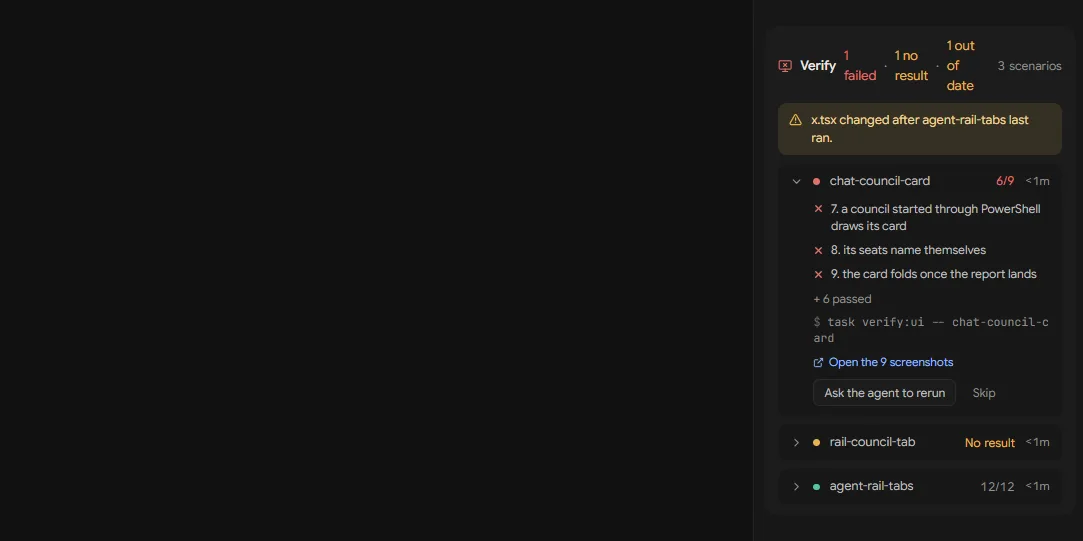
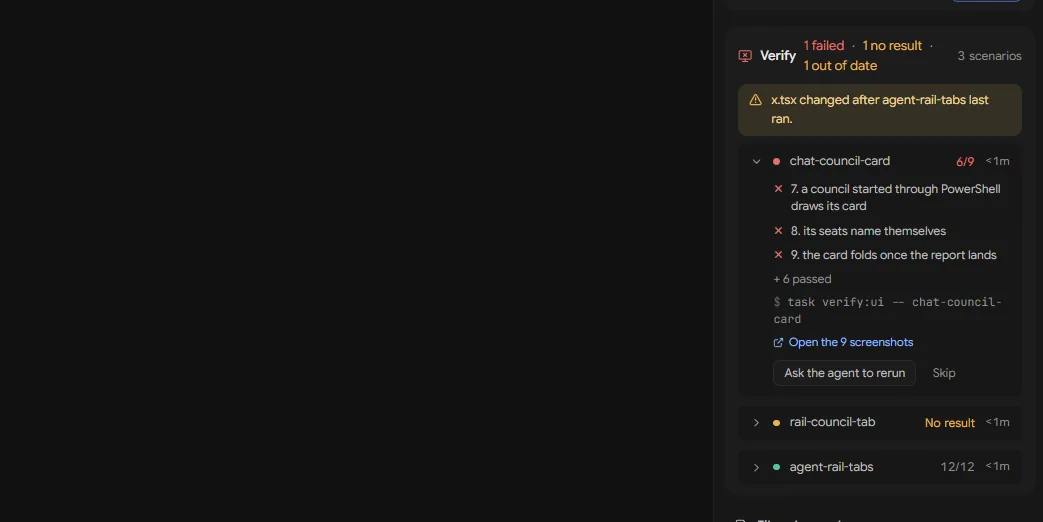
fix(verify): the tile's head keeps each verdict part whole, and the tile re-reads when the agent's state changes
The head's verdict parts were shrinking flex items that broke word by word in the 300px rail
('1 / failed · 1 no / result'); each part is now nowrap in one wrapping span, so a part that does not
fit moves to the next line whole and the scenario count stays at the right. The rerun command breaks
at words and hyphens, not mid-word.

useVerify takes the agent's state and reads again when it changes (a turn starting or ending): wavesrv
publishes nothing for a watched file the agent edits, so an edit after a passed run showed as passed
until a remount. No timer; the store and docs/agents/verify.md say so.

rail-verify: step 1 asserts every verdict part draws on one line with the count in view at the right;
step 8 edits the file during a turn and ends the turn through the roster row's state, with the page's
reads counted, instead of reading by hand. The What's new picture is taken again with the fix in.

Arc-Run: de501e59-96a1-46fe-b13f-8e1c18e57e78-t-9
Arc-Task: t-9
Arc-Model: t-9 claude claude-sonnet-5-5

diff --git a/frontend/app/view/agents/railverify.tsx b/frontend/app/view/agents/railverify.tsx
@@ -10,7 +10,8 @@
 // (`Verify · 3 passed`) that opens it. What the person opened lives in a per-agent atom, because the Overview tab unmounts
 // when another tab shows, and a tile that forgot its open rows on every tab switch would be a tile to fight.
 //
-// Test hooks: [data-verify-tile] (the section; data-verify-folded on its head while it is folded), [data-verify-head],
+// Test hooks: [data-verify-tile] (the section; data-verify-folded on its head while it is folded), [data-verify-head] with
+// one [data-verify-verdict] per verdict part and the [data-verify-count] ("3 scenarios"),
 // [data-verify-warning] (data-verify-kind outofdate|notrun), [data-verify-row=<scenario>][data-verify-state=<state>] with
 // [data-verify-open] (aria-expanded), [data-verify-note], [data-verify-shots], and the buttons [data-verify-rerun],
 // [data-verify-skip], [data-verify-undo], valued with the scenario (`notrun` on the warning line), [data-verify-error],
@@ -35,7 +36,7 @@ import {
     type LucideIcon,
 } from "lucide-react";
 import { AnimatePresence, motion } from "motion/react";
-import { Fragment, useEffect, useRef, useState } from "react";
+import { useEffect, useRef, useState } from "react";
 import type { RailVerifyStrip } from "./agentrailsections";
 import { openFileInPanel } from "./agentrailstore";
 import type { AgentsViewModel } from "./agents";
@@ -75,10 +76,11 @@ const TEXT_BTN = cn(
 // ---- the agent's state, read for the tile, the strip and the chip -------------------------------------------------------
 
 /** The agent's Verify state against its checkout. The rail's own cwd for the agent, or its roster cwd while the rail has not
- *  resolved one: the tile, the chip and the strip all read through this, so they share one block's atom and one read. */
+ *  resolved one: the tile, the chip and the strip all read through this, so they share one block's atom and one read. The
+ *  agent's state goes with it: a turn starting or ending is when a file the agent edited shows as out of date. */
 export function useAgentVerify(agent: AgentVM, enabled: boolean): { st: VerifyStateData | null; cwd: string } {
     const cwd = useAtomValue(railCwdsAtom)[agent.id] ?? agent.cwd ?? "";
-    const st = useVerify(enabled ? agent.blockId : undefined, cwd === "" ? undefined : cwd);
+    const st = useVerify(enabled ? agent.blockId : undefined, cwd === "" ? undefined : cwd, agent.state);
     return { st, cwd };
 }
 
@@ -217,16 +219,23 @@ export function VerifyTile({
             </span>
             <span className="font-medium text-primary">Verify</span>
             {!expanded ? <span className="text-muted">·</span> : null}
-            {tile.head.parts.map((p, i) => (
-                <Fragment key={i}>
-                    {i > 0 ? <span className="text-muted">·</span> : null}
-                    <span data-verify-verdict className={TONE_TEXT[p.tone]}>
-                        {p.text}
+            {/* the verdict parts wrap whole: a part that does not fit in the rail's width moves to the next line with its
+                  trailing dot, and never breaks inside (`1 / failed · 1 no / result`); the count stays at the right */}
+            <span className="flex min-w-0 flex-wrap items-baseline gap-x-[7px]">
+                {tile.head.parts.map((p, i) => (
+                    <span key={i} className="flex flex-none items-baseline gap-x-[7px] whitespace-nowrap">
+                        <span data-verify-verdict className={TONE_TEXT[p.tone]}>
+                            {p.text}
+                        </span>
+                        {i < tile.head.parts.length - 1 ? <span className="flex-none text-muted">·</span> : null}
                     </span>
-                </Fragment>
-            ))}
+                ))}
+            </span>
             {expanded && tile.head.count !== "" ? (
-                <span className="ml-auto flex-none pl-[6px] text-[11px] tabular-nums text-muted">
+                <span
+                    data-verify-count
+                    className="ml-auto flex-none whitespace-nowrap pl-[6px] text-[11px] tabular-nums text-muted"
+                >
                     {tile.head.count}
                 </span>
             ) : null}
@@ -446,7 +455,8 @@ export function VerifyTile({
                                                                     + {row.passedMore} passed
                                                                 </div>
                                                             ) : null}
-                                                            <div className="break-all font-mono text-[10.5px] text-muted">
+                                                            {/* breaks between words and at hyphens; inside a word only when it is wider than the tile */}
+                                                            <div className="break-words font-mono text-[10.5px] text-muted">
                                                                 <span className="text-ink-faint">$ </span>
                                                                 {row.command}
                                                             </div>

diff --git a/frontend/app/view/agents/verifystore.ts b/frontend/app/view/agents/verifystore.ts
@@ -3,8 +3,10 @@
 //
 // Each agent's Verify state as the cockpit holds it (spec 2026-11-20-rail-verify-design.md): wavesrv derives it from the
 // scenario runs the agent's harness reported, against the agent's checkout, so a read names the block and its cwd. It is
-// read when a view mounts, when the cwd changes and on each `verify:changed` event for a block a view is showing; wavesrv
-// never polls and neither does this.
+// read when a view mounts, when the cwd changes, on each `verify:changed` event for a block a view is showing, and each
+// time the agent's state changes (a turn starting or ending): wavesrv publishes nothing for a watched file the agent
+// edits, and an agent edits during its turns, so the turn's end is when an edit after a passed run shows as out of date.
+// There is no timer: wavesrv never polls and neither does this.
 
 import { globalStore } from "@/app/store/jotaiStore";
 import { waveEventSubscribeSingle } from "@/app/store/wps";
@@ -12,7 +14,7 @@ import { RpcApi } from "@/app/store/wshclientapi";
 import { TabRpcClient } from "@/app/store/wshrpcutil";
 import { atom, useAtomValue, type PrimitiveAtom } from "jotai";
 import { atomFamily } from "jotai/utils";
-import { useEffect } from "react";
+import { useEffect, useRef } from "react";
 
 // null until the first reading, and while wavesrv could not be asked
 export const verifyStateAtom = atomFamily(
@@ -67,9 +69,25 @@ export function ensureVerifyFeed(): void {
     });
 }
 
-/** The agent's Verify state, null without a block or a cwd to read against. Loads on mount and when the cwd changes. */
-export function useVerify(blockId: string | undefined, cwd: string | undefined): VerifyStateData | null {
+/** The agent's Verify state, null without a block or a cwd to read against. Loads on mount and when the cwd changes, and
+ * again each time `agentState` changes for the same block and cwd (the read the file an agent edited needs). */
+export function useVerify(
+    blockId: string | undefined,
+    cwd: string | undefined,
+    agentState?: string
+): VerifyStateData | null {
     const st = useAtomValue(verifyStateAtom(blockId ?? ""));
+    // what the last render saw: a change of state under the same block and cwd re-reads; a new block or cwd is the
+    // effect below's own read, and the first render reads nothing here (the mount read is below too)
+    const seen = useRef<{ key: string; state: string | undefined }>({ key: "", state: undefined });
+    useEffect(() => {
+        const key = `${blockId ?? ""}\n${cwd ?? ""}`;
+        const prev = seen.current;
+        seen.current = { key, state: agentState };
+        if (blockId && cwd && prev.key === key && prev.state !== agentState) {
+            void loadVerify(blockId, cwd);
+        }
+    }, [blockId, cwd, agentState]);
     useEffect(() => {
         if (!blockId || !cwd) {
             return;

diff --git a/docs/agents/verify.md b/docs/agents/verify.md
@@ -76,9 +76,12 @@ one-line message elsewhere or when wavesrv cannot be reached.
 - **Not run** is true only with no row at all (a watched file changed and the agent ran nothing). With rows, a change
   after a passed run is an out-of-date row, so the verdict and the gate never count not-run beside rows.
 - `verify:changed` (the block id) is published after every stored report and every skip or undo that changed a file. It is
-  not published for a file that changed on its own: the cockpit reads the state when a view mounts, when the agent's
-  cwd changes and on that event, so such a change shows at the next of those (switching the rail's tab or the agent,
-  the next report), while the merge gate always reads fresh.
+  not published for a file that changed on its own, and an agent edits during its turns: the cockpit reads the state when
+  a view mounts, when the agent's cwd changes, on that event, and each time the agent's state changes (a turn starting
+  or ending, `verifystore.ts` `useVerify`), so an edit after a passed run shows as out of date when that turn ends. An
+  edit made by someone else (the person in their editor) shows at the next of those reads (switching the rail's tab
+  or the agent, the next report, the agent's next turn). There is no timer on either side, and the merge gate always
+  reads fresh.
 
 ## What the cockpit draws
 
